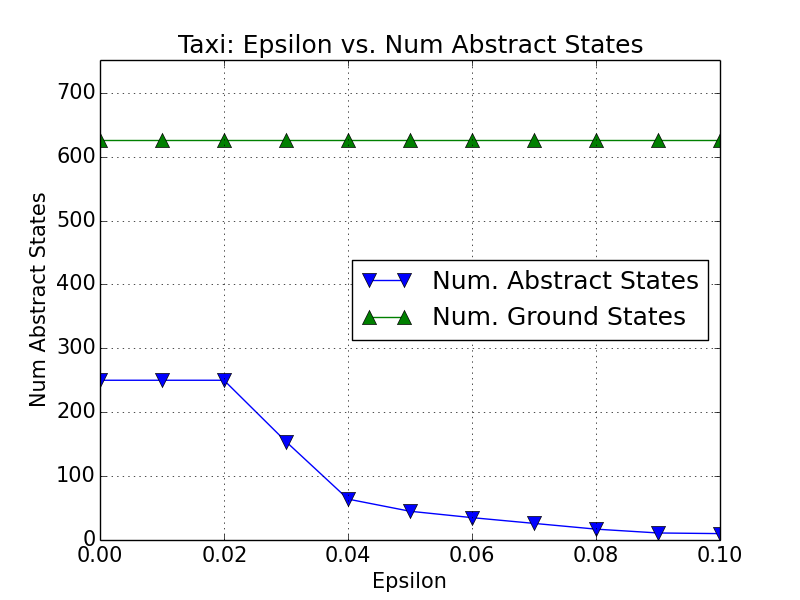
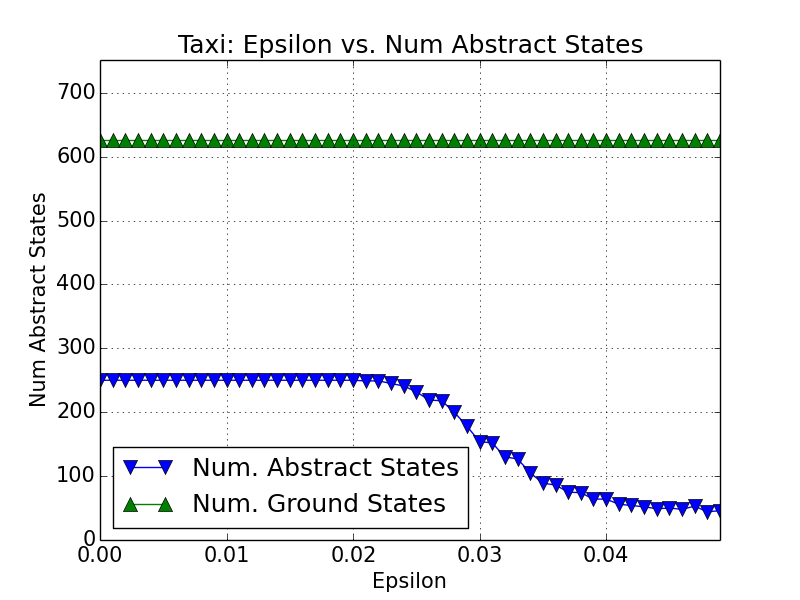
results outline, taxi plots with different epsilon range

diff --git a/paper/paper.tex b/paper/paper.tex
@@ -628,6 +628,8 @@ For different values of $\epsilon$.
 % Description of visuals.
 Our code base provides implementations to visualize, abstract, and evaluate arbitrary MDPs to promote further investigation into approximate abstraction. The included visuals of compressed MDPs always converts MDPs into a graph so that an arbitrary MDP may be visualized when abstracted. We use the graph visualization library GraphStream~\cite{graphstream}. In our visuals, a grey circle indicates a state, while the colored arrows indicate transitions. The thickness of the arrow indicates how much reward is associated with that transition. In the ground MDPs, states are labeled with a number. In some abstract MDPs, we indicate which ground states were collapsed to each abstract state (some are visually unwieldy and so were ignored).
 
+\dnote{One thing we want to add is a description of how diverse these domains are!}
+\dnote{Also put in a note that we're using a uniform weighting scheme}
 
 % Subsection: NChain.
 \subsection{NChain}
@@ -716,6 +718,17 @@ The Random MDP domain we consider is as follows. There are $N$ states, and $K$ a
 
 % --- SECTION: Approximate Abstraction on Example Domains ---
 \section{Approximate Abstraction on Example Domains}
+
+Here we discuss the results shown in states blah blah \dnote{Description of this section}.
+
+
+\begin{itemize}
+\item For $\epsilon > 0$, there are extremely useful abstractions to be made. Want to emphasize that with approximate knowledge of X, can still abstract effectively (point out Minefield + NChain both retain a very good policy from abstract MDP). This hits the learnable point.
+\item Explain goal based/Taxi (regenerate plot for different scale of epsilon)
+\item Possibly talk about stochasticity (low priority)
+\item Explain Random behavior, smooth interpolation, mention randomness, etc.
+\item Describe plots a bit (what is the y-axis?)
+\end{itemize}
 
 % Figure: Epsilon vs. #States for all three sample domains.
 \begin{figure}
